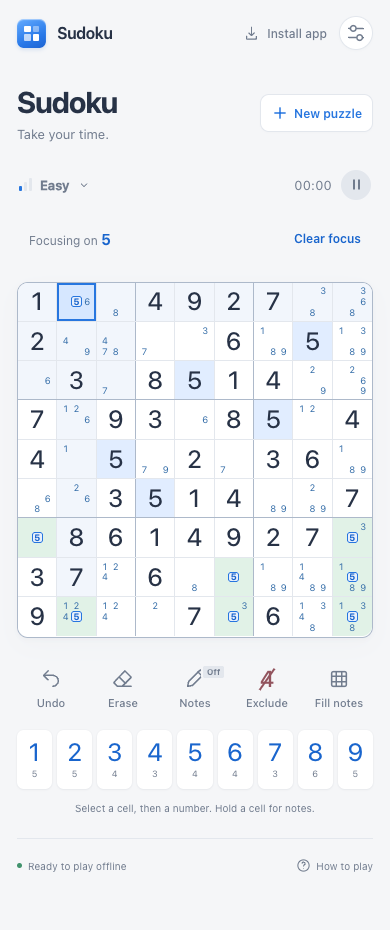
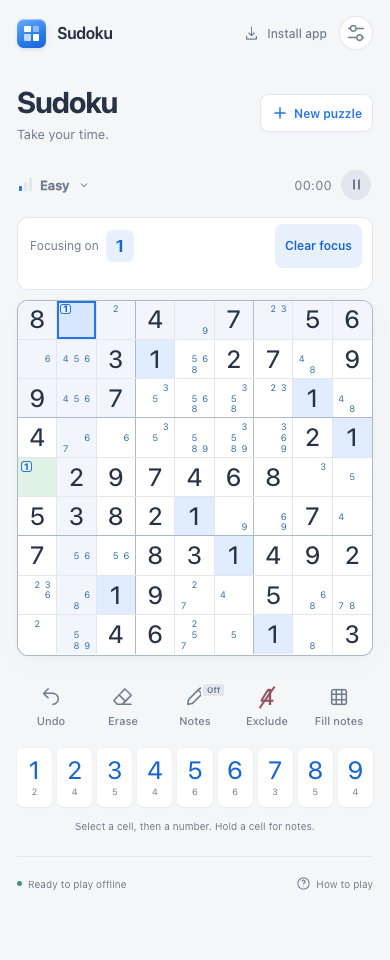
style(game): group digit focus controls in a panel

diff --git a/src/app/globals.css b/src/app/globals.css
@@ -135,12 +135,12 @@ h1 { font-size: 32px; font-weight: 720; letter-spacing: -1.2px; line-height: 1.1
 .tools { justify-content: space-between; gap: 4px; }
 .tool-button { min-width: 0; flex: 1; }
 
-.digit-focus-bar { min-height: 65px; padding: 0 2px 8px; }
+.digit-focus-bar { min-height: 73px; margin-bottom: 10px; padding: 6px 10px; border: 1px solid var(--line); border-radius: 11px; background: var(--surface); }
 .digit-focus-bar[inert] { visibility: hidden; }
 .digit-focus-controls { min-height: 44px; display: flex; align-items: center; justify-content: space-between; gap: 12px; }
-.focus-button { min-height: 44px; padding: 0 10px; border-radius: 8px; color: var(--blue-strong); font-size: 12px; font-weight: 600; }
-.focus-button:disabled { color: var(--secondary); opacity: .65; }
-.digit-focus-label { font-size: 12px; color: var(--secondary); padding-left: 10px; }
-.digit-focus-label strong { color: var(--blue-strong); font-size: 15px; }
-.focus-hint { padding-left: 10px; color: var(--secondary); font-size: 11px; line-height: 13px; }
+.focus-button { min-height: 44px; padding: 0 10px; border-radius: 8px; background: var(--blue-soft); color: var(--blue-strong); font-size: 12px; font-weight: 600; }
+.focus-button:disabled { background: none; color: var(--secondary); opacity: .65; }
+.digit-focus-label { display: flex; align-items: center; gap: 7px; font-size: 12px; color: var(--secondary); padding-left: 2px; }
+.digit-focus-label strong { display: grid; place-items: center; width: 28px; height: 32px; border-radius: 7px; background: var(--blue-soft); color: var(--blue-strong); font-size: 17px; }
+.focus-hint { padding-left: 2px; color: var(--secondary); font-size: 11px; line-height: 13px; }
 .notes .note-digit.note-focused { background: var(--blue-soft); color: var(--blue-strong); border-radius: 3px; font-weight: 750; box-shadow: inset 0 0 0 1px var(--blue); }

diff --git a/src/components/game.tsx b/src/components/game.tsx
@@ -216,7 +216,7 @@ export default function SudokuGame() {
         </div>}
       </div>
 
-      <div className="digit-focus-bar" aria-label="Digit focus" inert={paused || busy || complete || !game}>
+      <div className="digit-focus-bar" role="group" aria-label="Digit focus" inert={paused || busy || complete || !game}>
         <div className="digit-focus-controls">
           {focusedDigit !== null ? <><span className="digit-focus-label" role="status">Focusing on <strong>{focusedDigit}</strong></span><button className="focus-button" onClick={() => { setFocusedDigit(null); board.current?.querySelector<HTMLButtonElement>(`[data-index="${selected}"]`)?.focus(); }}>Clear focus</button></>
             : <button className="focus-button" disabled={!selectedCellValue || batchNotes} onClick={() => setFocusedDigit(selectedCellValue)} aria-describedby={selectedCellValue && !focusHoldLearned ? 'focus-hold-hint' : undefined}>Focus on {selectedCellValue || 'a number'}</button>}

diff --git a/docs/investigations/2026-09-21-digit-focus.md b/docs/investigations/2026-09-21-digit-focus.md
@@ -16,7 +16,7 @@ Roadmap milestone 1 keeps a digit highlighted independently of cell selection. S
 
 A 400ms filled-cell hold invokes the focus callback. Movement beyond 8px before activation cancels it, and dragging after activation cannot turn into batch selection. Holding a filled cell during a batch keeps the batch and its selected entry target. Native Focus and Clear focus buttons support keyboard activation.
 
-Only shortcut discovery is saved, under `sudoku.focus-hold-learned.v1`. Read/write failure is tolerated. Focus itself resets on reload or a new puzzle. A stable-height row prevents the board moving when the hint disappears or focus changes.
+Only shortcut discovery is saved, under `sudoku.focus-hold-learned.v1`. Read/write failure is tolerated. Focus itself resets on reload or a new puzzle. After playtest feedback, a bordered panel groups the action, active-digit badge, Clear focus, and shortcut hint. A stable-height panel prevents the board moving when the hint disappears or focus changes.
 
 ## Gotchas
 
@@ -30,7 +30,7 @@ The prototype forced Smart highlighting on and disabled saving. Neither behavior
 - Short taps and canceled holds (movement, blur, pointer cancellation, a second pointer, dialog, pause) did not activate focus.
 - Hint appearance, retirement after a successful hold, persistence across reload, unavailable hint storage, and focus reset on reload/new puzzle passed.
 - All 58 existing unit tests, ESLint, TypeScript, production build, service-worker generation, and whitespace checks passed.
-- Production-build checks passed for both activation methods and persistent focus. Inspected phone light/dark and desktop captures. Phone captures use 390 × 930 to fit the extra control row without a scrollbar; board margins are 17px on both sides.
+- Production-build checks passed for both activation methods and persistent focus. Inspected phone light/dark and desktop captures. Phone captures use 390 × 960 to fit the extra control row without a scrollbar; board margins are 17px on both sides.
 - Keep the test page foreground for hold checks: background-tab timer throttling can postpone the 400ms hold beyond a simulated press.
 - Physical iOS/Safari gesture behavior remains unverified.
 

diff --git a/docs/plans/2026-09-21-digit-focus-design.md b/docs/plans/2026-09-21-digit-focus-design.md
@@ -10,7 +10,7 @@ Hold on an empty cell retains batch selection. Moving before the hold threshold,
 
 ## Presentation and accessibility
 
-A compact row above the board offers Focus on the selected digit, then Focusing on the digit and Clear focus. Keep its height stable while choosing cells. The hint reads “You can also hold a filled cell.” It is shown only with an available Focus action, before the shortcut has been learned. Persist only that learned flag, tolerating storage failure. Put the complete instructions in How to play. Native buttons provide keyboard access; focus and batch controls remain separate.
+A compact standalone panel above the board groups the shortcut hint with its action and offers Focus on the selected digit, then Focusing on the digit and Clear focus. Keep its height stable while choosing cells. The hint reads “You can also hold a filled cell.” It is shown only with an available Focus action, before the shortcut has been learned. Persist only that learned flag, tolerating storage failure. Put the complete instructions in How to play. Native buttons provide keyboard access; focus and batch controls remain separate.
 
 ## Verification
 
